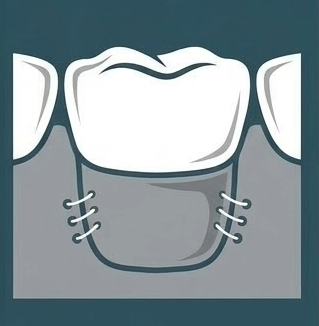
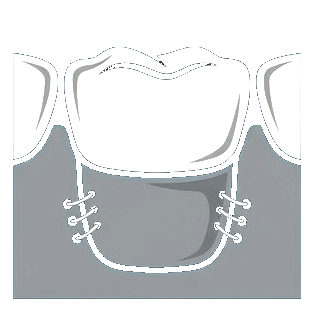
V2.9.1: Remoção de fundos dos templates dentários + preview page (15/15 transparentes)

diff --git a/public/dental-preview.html b/public/dental-preview.html
@@ -1,0 +1,274 @@
+<!DOCTYPE html>
+<html lang="pt">
+
+<head>
+  <meta charset="UTF-8">
+  <meta name="viewport" content="width=device-width, initial-scale=1.0">
+  <title>Dental Elements Preview — AsymLAB</title>
+  <style>
+    * {
+      margin: 0;
+      padding: 0;
+      box-sizing: border-box;
+    }
+
+    body {
+      font-family: 'Inter', -apple-system, BlinkMacSystemFont, 'Segoe UI', sans-serif;
+      background: #0f172a;
+      color: #e2e8f0;
+      min-height: 100vh;
+      padding: 2rem;
+    }
+
+    h1 {
+      text-align: center;
+      font-size: 1.5rem;
+      font-weight: 700;
+      margin-bottom: 0.5rem;
+      background: linear-gradient(135deg, #7c3aed, #06b6d4);
+      -webkit-background-clip: text;
+      -webkit-text-fill-color: transparent;
+    }
+
+    .subtitle {
+      text-align: center;
+      font-size: 0.75rem;
+      color: #64748b;
+      margin-bottom: 2rem;
+      letter-spacing: 0.05em;
+      text-transform: uppercase;
+    }
+
+    .category {
+      margin-bottom: 2rem;
+    }
+
+    .category-title {
+      font-size: 0.7rem;
+      font-weight: 600;
+      text-transform: uppercase;
+      letter-spacing: 0.1em;
+      color: #7c3aed;
+      margin-bottom: 1rem;
+      padding-bottom: 0.5rem;
+      border-bottom: 1px solid rgba(124, 58, 237, 0.2);
+    }
+
+    .grid {
+      display: grid;
+      grid-template-columns: repeat(auto-fill, minmax(140px, 1fr));
+      gap: 1rem;
+    }
+
+    .card {
+      background: #1e293b;
+      border: 1px solid rgba(255, 255, 255, 0.08);
+      border-radius: 12px;
+      padding: 1rem;
+      display: flex;
+      flex-direction: column;
+      align-items: center;
+      gap: 0.75rem;
+      transition: all 0.2s;
+      cursor: default;
+    }
+
+    .card:hover {
+      border-color: rgba(124, 58, 237, 0.4);
+      background: #1e293b;
+      transform: translateY(-2px);
+      box-shadow: 0 8px 24px rgba(0, 0, 0, 0.3);
+    }
+
+    .card-img {
+      width: 80px;
+      height: 80px;
+      object-fit: contain;
+      filter: drop-shadow(0 2px 8px rgba(0, 0, 0, 0.3));
+    }
+
+    .card-label {
+      font-size: 0.75rem;
+      font-weight: 600;
+      color: #cbd5e1;
+      text-align: center;
+    }
+
+    .card-file {
+      font-size: 0.6rem;
+      color: #475569;
+      font-family: 'Fira Code', monospace;
+      word-break: break-all;
+      text-align: center;
+    }
+
+    .card-type {
+      font-size: 0.6rem;
+      color: #7c3aed;
+      background: rgba(124, 58, 237, 0.1);
+      padding: 2px 8px;
+      border-radius: 99px;
+      font-weight: 500;
+    }
+
+    .stats {
+      text-align: center;
+      margin-top: 2rem;
+      padding-top: 1.5rem;
+      border-top: 1px solid rgba(255, 255, 255, 0.05);
+      font-size: 0.7rem;
+      color: #475569;
+    }
+
+    .checkered {
+      background-image:
+        linear-gradient(45deg, #162032 25%, transparent 25%),
+        linear-gradient(-45deg, #162032 25%, transparent 25%),
+        linear-gradient(45deg, transparent 75%, #162032 75%),
+        linear-gradient(-45deg, transparent 75%, #162032 75%);
+      background-size: 16px 16px;
+      background-position: 0 0, 0 8px, 8px -8px, -8px 0px;
+      border-radius: 8px;
+      padding: 12px;
+      width: 104px;
+      height: 104px;
+      display: flex;
+      align-items: center;
+      justify-content: center;
+    }
+  </style>
+</head>
+
+<body>
+  <h1>🦷 Elementos Dentários — Preview</h1>
+  <p class="subtitle">15 elementos disponíveis no Image Annotator</p>
+
+  <!-- Restaurações -->
+  <div class="category">
+    <h2 class="category-title">🔧 Restaurações</h2>
+    <div class="grid">
+      <div class="card">
+        <div class="checkered"><img class="card-img" src="/images/dental-elements/coroa.png" alt="Coroa"></div>
+        <span class="card-label">Coroa</span>
+        <span class="card-type">coroa</span>
+        <span class="card-file">coroa.png</span>
+      </div>
+      <div class="card">
+        <div class="checkered"><img class="card-img" src="/images/dental-elements/exocad-faceta.svg" alt="Faceta"></div>
+        <span class="card-label">Faceta</span>
+        <span class="card-type">faceta</span>
+        <span class="card-file">exocad-faceta.svg</span>
+      </div>
+      <div class="card">
+        <div class="checkered"><img class="card-img" src="/images/dental-elements/vertiprep.png" alt="Vertiprep"></div>
+        <span class="card-label">Vertiprep</span>
+        <span class="card-type">vertiprep</span>
+        <span class="card-file">vertiprep.png</span>
+      </div>
+      <div class="card">
+        <div class="checkered"><img class="card-img" src="/images/dental-elements/overlay.png" alt="Overlay"></div>
+        <span class="card-label">Overlay</span>
+        <span class="card-type">overlay</span>
+        <span class="card-file">overlay.png</span>
+      </div>
+      <div class="card">
+        <div class="checkered"><img class="card-img" src="/images/dental-elements/veneerlay.png" alt="Veneerlay"></div>
+        <span class="card-label">Veneerlay</span>
+        <span class="card-type">veneerlay</span>
+        <span class="card-file">veneerlay.png</span>
+      </div>
+      <div class="card">
+        <div class="checkered"><img class="card-img" src="/images/dental-elements/exocad-inlay.svg" alt="Onlay"></div>
+        <span class="card-label">Onlay</span>
+        <span class="card-type">onlay</span>
+        <span class="card-file">exocad-inlay.svg</span>
+      </div>
+      <div class="card">
+        <div class="checkered"><img class="card-img" src="/images/dental-elements/composito-injectado.png"
+            alt="Compósito"></div>
+        <span class="card-label">Compósito Injectado</span>
+        <span class="card-type">composito</span>
+        <span class="card-file">composito-injectado.png</span>
+      </div>
+    </div>
+  </div>
+
+  <!-- Prótese -->
+  <div class="category">
+    <h2 class="category-title">🌉 Prótese</h2>
+    <div class="grid">
+      <div class="card">
+        <div class="checkered"><img class="card-img" src="/images/dental-elements/pontico.png" alt="Pôntico"></div>
+        <span class="card-label">Pôntico</span>
+        <span class="card-type">pontico</span>
+        <span class="card-file">pontico.png</span>
+      </div>
+    </div>
+  </div>
+
+  <!-- Cirúrgico -->
+  <div class="category">
+    <h2 class="category-title">🔩 Cirúrgico</h2>
+    <div class="grid">
+      <div class="card">
+        <div class="checkered"><img class="card-img" src="/images/dental-elements/implante.png" alt="Implante"></div>
+        <span class="card-label">Implante</span>
+        <span class="card-type">implante</span>
+        <span class="card-file">implante.png</span>
+      </div>
+      <div class="card">
+        <div class="checkered"><img class="card-img" src="/images/dental-elements/enxerto.png" alt="Enxerto"></div>
+        <span class="card-label">Enxerto</span>
+        <span class="card-type">enxerto</span>
+        <span class="card-file">enxerto.png</span>
+      </div>
+      <div class="card">
+        <div class="checkered"><img class="card-img" src="/images/dental-elements/osteotomia.png" alt="Osteotomia">
+        </div>
+        <span class="card-label">Osteotomia</span>
+        <span class="card-type">osteotomia</span>
+        <span class="card-file">osteotomia.png</span>
+      </div>
+      <div class="card">
+        <div class="checkered"><img class="card-img" src="/images/dental-elements/gengivectomia.png"
+            alt="Gengivectomia"></div>
+        <span class="card-label">Gengivectomia</span>
+        <span class="card-type">gengivectomia</span>
+        <span class="card-file">gengivectomia.png</span>
+      </div>
+    </div>
+  </div>
+
+  <!-- Outros -->
+  <div class="category">
+    <h2 class="category-title">🦷 Outros</h2>
+    <div class="grid">
+      <div class="card">
+        <div class="checkered"><img class="card-img" src="/images/dental-elements/desvitalizacao.png"
+            alt="Desvitalização"></div>
+        <span class="card-label">Desvitalização</span>
+        <span class="card-type">desvitalizacao</span>
+        <span class="card-file">desvitalizacao.png</span>
+      </div>
+      <div class="card">
+        <div class="checkered"><img class="card-img" src="/images/dental-elements/orto.png" alt="Orto"></div>
+        <span class="card-label">Ortodontia</span>
+        <span class="card-type">orto</span>
+        <span class="card-file">orto.png</span>
+      </div>
+      <div class="card">
+        <div class="checkered"><img class="card-img" src="/images/dental-elements/branqueamento.png"
+            alt="Branqueamento"></div>
+        <span class="card-label">Branqueamento</span>
+        <span class="card-type">branqueamento</span>
+        <span class="card-file">branqueamento.png</span>
+      </div>
+    </div>
+  </div>
+
+  <div class="stats">
+    15 elementos · 4 categorias · 13 PNGs + 2 SVGs
+  </div>
+</body>
+
+</html>
